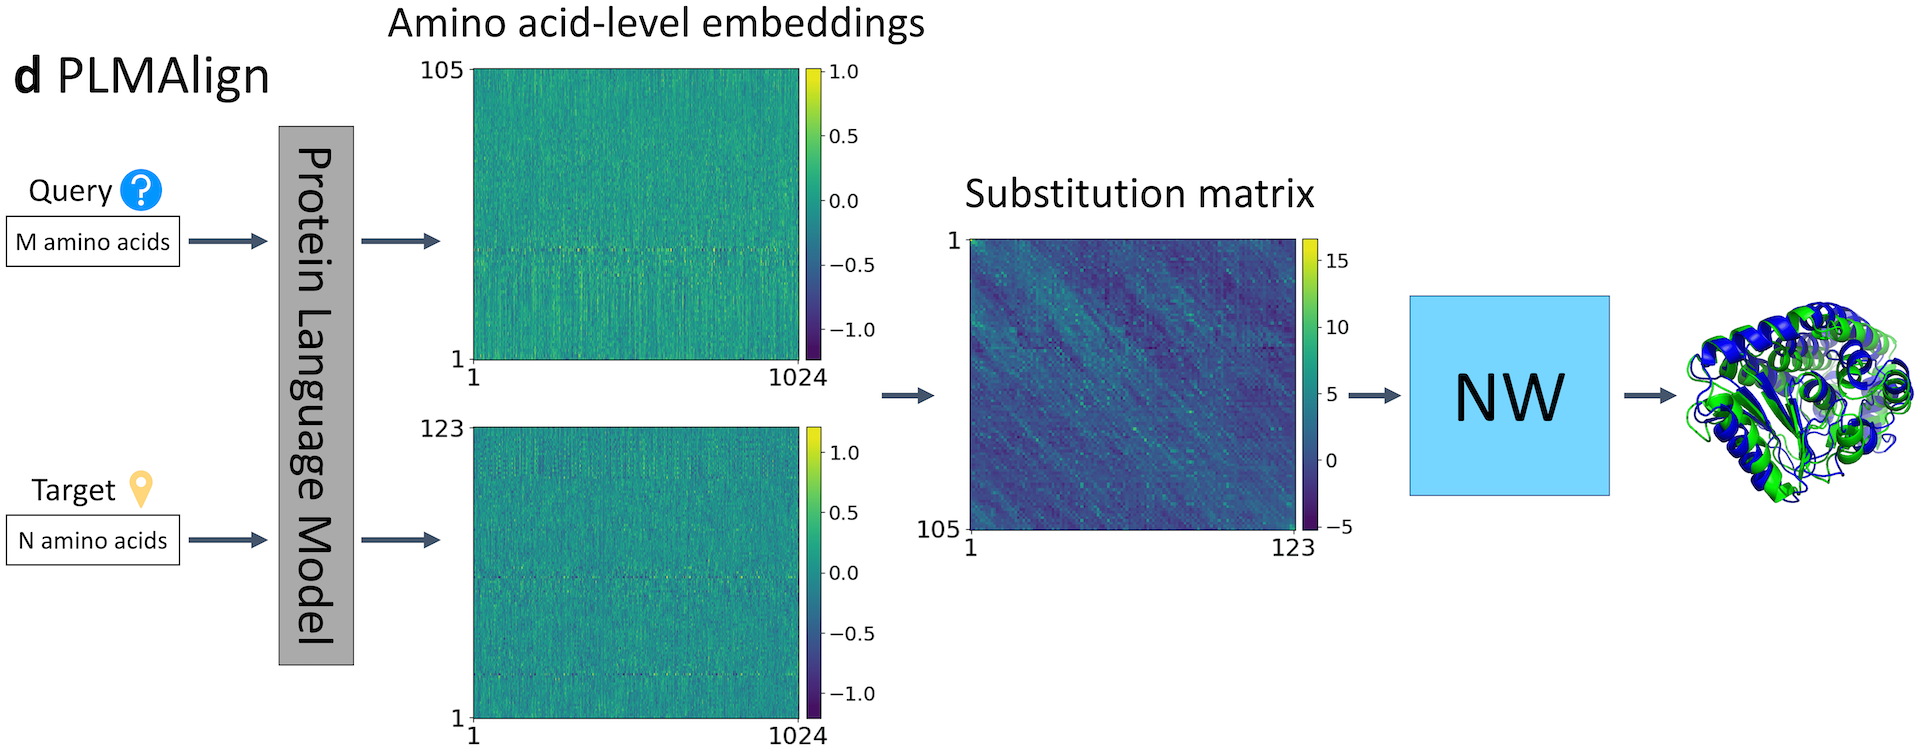
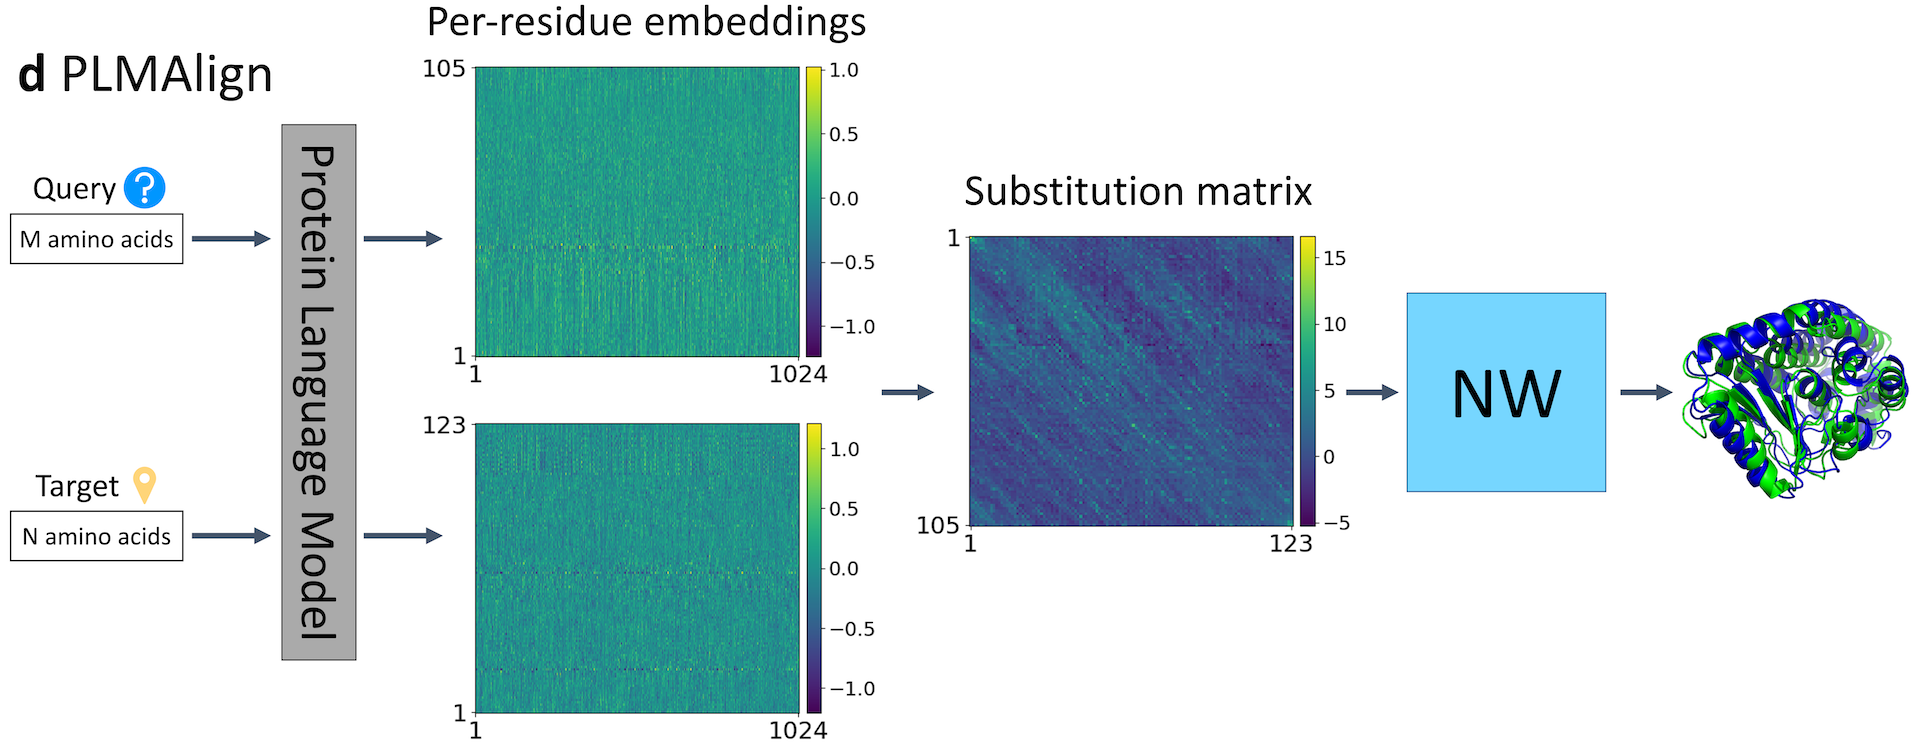
2024.3.31: Modify Readme

diff --git a/README.md b/README.md
@@ -1,8 +1,8 @@
 # PLMAlign
 
-This is the implement of <b>PLMAlign</b>, an alignment tool in "PLMSearch: Protein language model powers accurate and fast sequence search for remote homology". PLMAlign takes amino acid-level embeddings as input to obtain specific alignments and corresponding alignment scores.
+This is the implement of <b>PLMAlign</b>, a pairwise protein sequence alignment tool in "PLMSearch: Protein language model powers accurate and fast sequence search for remote homology". PLMAlign takes per-residue embeddings as input to obtain specific alignments and corresponding alignment scores.
 
-Specifically, PLMAlign can achieve <b>local</b> and <b>global</b> alignment. The specific algorithm and parameters are similar to the [SW](https://www.ebi.ac.uk/Tools/psa/emboss_water/) and [NW](https://www.ebi.ac.uk/Tools/psa/emboss_needle/) algorithms implemented by [EMBL-EBI](https://www.ebi.ac.uk/). However, by converting a fixed substitution matrix into similarity calculated by the dot product of amino acid-level embeddings, PLMAlign is able to capture deep evolutionary information and perform better on remote homology protein pairs.
+Specifically, PLMAlign can achieve <b>local</b> and <b>global</b> alignment. The specific algorithm and parameters are similar to the [SW](https://www.ebi.ac.uk/Tools/psa/emboss_water/) and [NW](https://www.ebi.ac.uk/Tools/psa/emboss_needle/) algorithms implemented by [EMBL-EBI](https://www.ebi.ac.uk/). However, by converting a fixed substitution matrix into similarity calculated by the dot product of per-residue embeddings, PLMAlign is able to capture deep evolutionary information and perform better on remote homology protein pairs.
 
 <div align=center><img src="example/figure/framework.png" width="100%" height="100%"/></div>
 
@@ -12,7 +12,7 @@ Specifically, PLMAlign can achieve <b>local</b> and <b>global</b> alignment. The
 * [Requirements](#requirements)
 * [Data preparation](#data-preparation)
 * [Reproduce all our experiments](#main)
-* [Build PLMSearch locally](#pipeline)
+* [Run PLMAlign locally](#pipeline)
 * [Citation](#citation)
 
 ## Webserver
@@ -38,13 +38,6 @@ wget https://dmiip.sjtu.edu.cn/PLMAlign/static/download/plmalign_data.tar.gz
 tar zxvf plmalign_data.tar.gz
 ```
 
-## Run PLMAlign
-<span id="pipeline"></span>
-
-- Run PLMAlign locally by following the example in [pipeline.ipynb](pipeline.ipynb)
-
-**Notice: the inputs and outputs of the example are saved in** `example/`.
-
 ## Reproduce all our experiments
 <span id="main"></span>
 
@@ -57,6 +50,13 @@ Reproduce all our experiments with good visualization by following the steps in:
 - SCOPe40: [scope40.ipynb](scope40.ipynb)
 
 **Notice: Detailed results are saved in** `data/scope40_test/output/`.
+
+## Run PLMAlign locally
+<span id="pipeline"></span>
+
+- Run PLMAlign locally by following the example in [pipeline.ipynb](pipeline.ipynb)
+
+**Notice: the inputs and outputs of the example are saved in** `example/`.
 
 ## Citation
 <span id="citation"></span>
